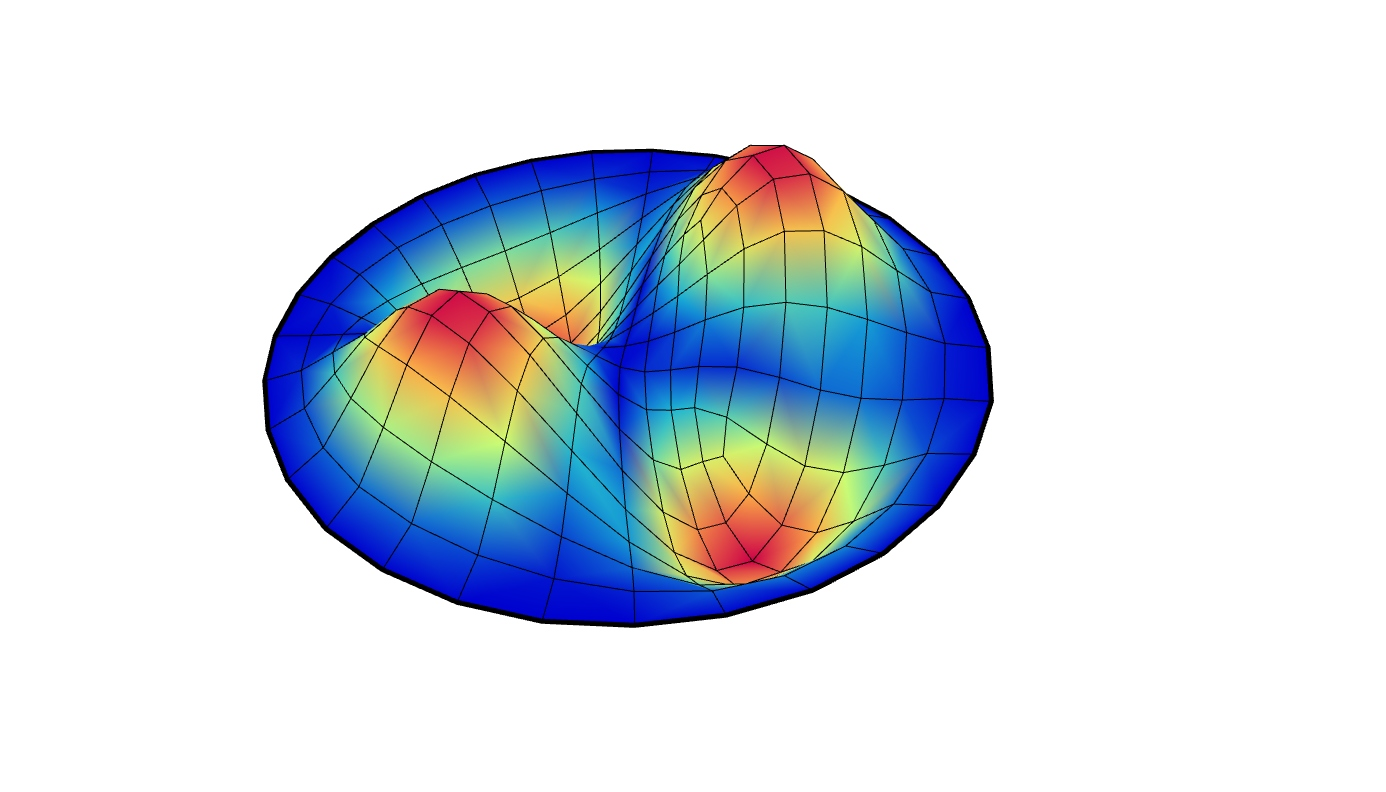
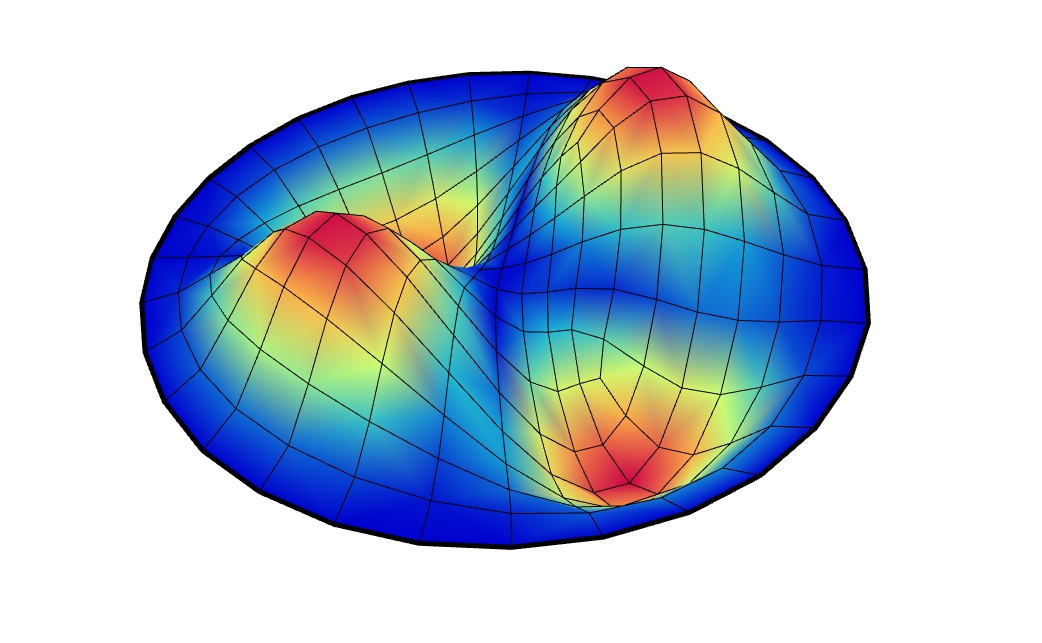
.

diff --git a/doc/examples/natural-vibration/natural-vibration.md b/doc/examples/natural-vibration/natural-vibration.md
@@ -1,5 +1,7 @@
 # 🎶 Natural Vibration
 
-<figure><img src="https://raw.githubusercontent.com/Alpaca4d/alpaca4d.github.io/refs/heads/main/doc/examples/natural-vibration/natural-vibration.jpg" alt=""><figcaption></figcaption></figure>
+<figure><img src="https://raw.githubusercontent.com/Alpaca4d/alpaca4d.github.io/refs/heads/main/doc/examples/natural-vibration/natural-vibration.png" alt=""><figcaption></figcaption></figure>
+
+<figure><img src="https://raw.githubusercontent.com/Alpaca4d/alpaca4d.github.io/refs/heads/main/doc/examples/natural-vibration/natural-vibration-2.png" alt=""><figcaption></figcaption></figure>
 
 [natural-vibration](https://raw.githubusercontent.com/Alpaca4d/alpaca4d.github.io/main/doc/examples/natural-vibration/natural-vibration.gh)

diff --git a/doc/examples/meshloft-meshbrick/meshloft-meshbrick.md b/doc/examples/meshloft-meshbrick/meshloft-meshbrick.md
@@ -1,5 +1,5 @@
-# 🏗 Mesh Loft - Mesh Series to Bricks
+# 🕸 Mesh Loft - Mesh Series to Bricks
 
-<figure><img src="https://raw.githubusercontent.com/Alpaca4d/alpaca4d.github.io/refs/heads/main/doc/examples/meshloft-meshbrick/meshloft-meshbrick.png" alt="" width="273"><figcaption></figcaption></figure>
+<figure><img src="https://raw.githubusercontent.com/Alpaca4d/alpaca4d.github.io/refs/heads/main/doc/examples/meshloft-meshbrick/meshloft-meshbrick.png"><figcaption></figcaption></figure>
 
 [deconstruct-anything](https://raw.githubusercontent.com/Alpaca4d/alpaca4d.github.io/main/doc/examples/meshloft-meshbrick/meshloft-meshbrick.gh)

diff --git a/doc/examples/deconstruct-anything/deconstruct-anything.md b/doc/examples/deconstruct-anything/deconstruct-anything.md
@@ -1,5 +1,5 @@
 # 🏗 Deconstruct Anything
 
-<figure><img src="https://raw.githubusercontent.com/Alpaca4d/alpaca4d.github.io/refs/heads/main/doc/examples/deconstruct-anything/deconstruct-anything.png" alt="" width="273"><figcaption></figcaption></figure>
+<figure><img src="https://raw.githubusercontent.com/Alpaca4d/alpaca4d.github.io/refs/heads/main/doc/examples/deconstruct-anything/deconstruct-anything.png"><figcaption></figcaption></figure>
 
 [deconstruct-anything](https://raw.githubusercontent.com/Alpaca4d/alpaca4d.github.io/main/doc/examples/deconstruct-anything/deconstruct-anything.gh)
